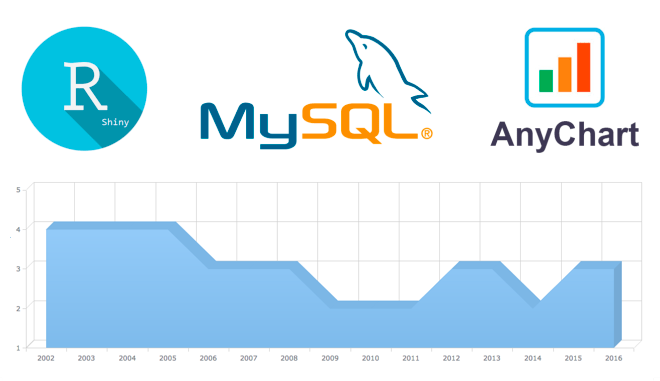
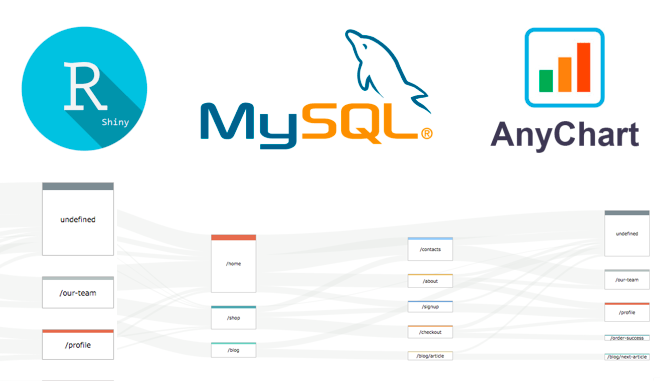
update chart type

diff --git a/index.html b/index.html
@@ -1,35 +1,73 @@
 <!DOCTYPE html>
 <html lang="en">
 <head>
-    <meta charset="UTF-8">
-    <title>{{ title }}</title>
-    <script src="https://cdn.anychart.com/releases/v8/js/anychart-bundle.min.js"></script>
-    <link rel="stylesheet" href="https://cdn.anychart.com/releases/v8/css/anychart-ui.min.css" />
-    <link rel="stylesheet" href="/css/style.css"/>
+<style>
+html, body, #container {
+    width: 100%;
+    height: 100%;
+    margin: 0;
+    padding: 0;
+	}
+</style>
+  <meta charset="UTF-8">
+  <title>{{ title }}</title>
+  <script src="https://cdn.anychart.com/releases/v8/js/anychart-base.min.js"></script>
+  <script src="https://cdn.anychart.com/releases/v8/js/anychart-ui.min.js"></script>
+  <script src="https://cdn.anychart.com/releases/v8/js/anychart-exports.min.js"></script>
+  <script src="https://cdn.anychart.com/releases/v8/js/anychart-sankey.min.js"></script>
+  <link rel="stylesheet" href="https://cdn.anychart.com/releases/v8/css/anychart-ui.min.css"/>
+  <link rel="stylesheet" href="https://cdn.anychart.com/releases/v8/fonts/css/anychart.min.css"/>
+  <link rel="stylesheet" href="/css/style.css" />
 </head>
 <body>
 <div id="container"></div>
 <script>
-    anychart.onDocumentReady(function() {
+  anychart.onDocumentReady(function() {
+    var data = anychart.data.set({{ chartData }});
+    var mapping = data.mapAs({from: "from_node", to: "to_node", weight: "flow_value"});
+      var chart = anychart.sankey(mapping);
+      chart.title({{ chartTitle }});
+      // set chart's padding
+  chart.padding(10, 10, 30, 10);
 
-    var chart = anychart.area3d({{ chartData }});
-    chart.title({{ chartTitle }});
-    chart.animation(true);
+  // set nodes width and padding
+  chart.nodeWidth(100);
+  chart.nodePadding(30);
 
-    var xAxis = chart.xAxis();
-    xAxis.title("Year");
-    var yAxis = chart.yAxis();
-    yAxis.title("Students of the USA, %");
+  // Set flow's normal and hovered fill
+  chart.flow({
+      normal: {
+          fill: '#DFE0DF .3',
+      },
+      hovered: {
+          fill: '#DFE0DF .9'
+      }
+  });
 
-    var yScale = chart.yScale();
-    yScale.minimum(1);
-    yScale.maximum(5);
-
-    chart.crosshair(true);
-
-    chart.container("container");
-    chart.draw();
-});
+  // Set flow's normal and hovered fill
+  chart.node({
+      normal: {
+          fill: function() {
+              return {
+                  keys: [anychart.color.lighten(this.sourceColor, .3), '.1 ' + anychart.color.lighten(this.sourceColor, .3), '.1 #FFFFFF'],
+                  angle: -90
+              }
+          },
+          stroke: '#bbb'
+      },
+      hovered: {
+          fill: function() {
+              return {
+                  keys: [anychart.color.darken(this.sourceColor, .3), '.1 ' + anychart.color.darken(this.sourceColor, .3), '.1 #FFFFFF'],
+                  angle: -90
+              }
+          },
+          stroke: '#666'
+      }
+  });
+      chart.container("container");
+      chart.draw();
+  });
 </script>
 </body>
 </html>
